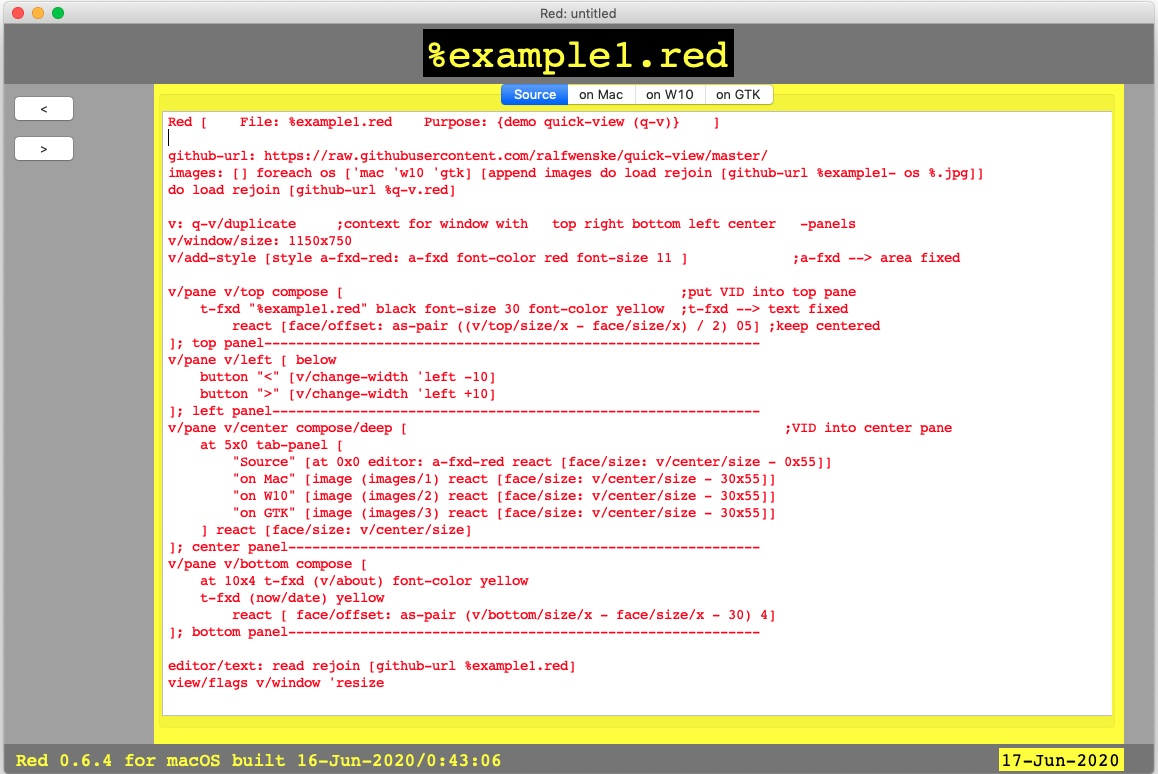
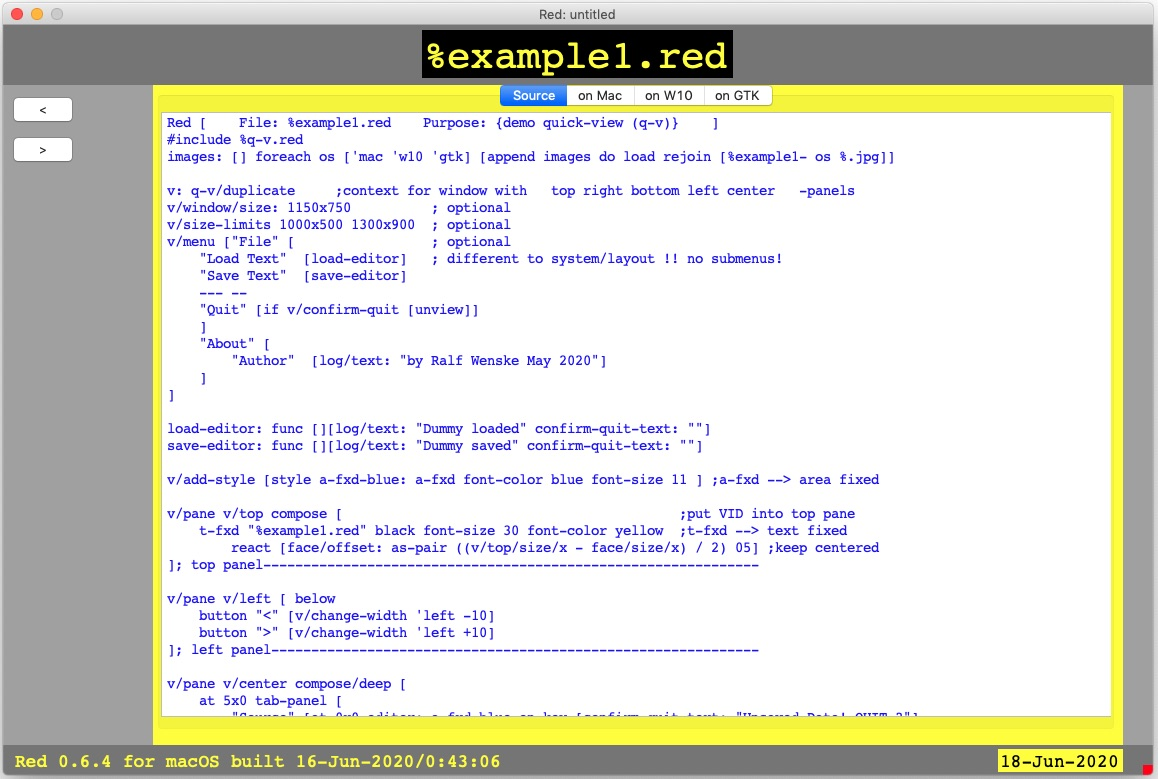
Loading files locally
Added menu
Added size-limits
Added on-quit dialog

Changed region(s): [[0.0, 0.0, 1.0, 1.0], [0.6839, 0.5271, 0.8394, 0.5581]]

diff --git a/README.md b/README.md
@@ -1,10 +1,21 @@
 # quick-view
  
-Experimental: changes are likely
+Experimental: changes are likely.
+I also would appreciate suggestions to improve and make the code more 'Red' like.
+My aim (besides having fun exploring Red) is to be able to quickly have a visual
+interface where I can show results of my data processing - without getting lost
+in presentation logic and pixel counting...
+... and perhaps achieve the same for others - beginners and experts - who so 
+generously share their tools and coding insights.
 
 Purpose:
-To avoid having to fiddle with pixels q-v allows to create a resizable GUI with 5 panels.
-Visual presentation of data is sometimes more appealing than endless console listings :)
+q-v allows to create a GUI with 5 panels.
+A fully working graphical user interface with a few lines of
+(hopefully self explaining) code:
+    Resizable (the window or outer panels)
+    Dialog preventing data loss if accidental quitting
+    Easy identifying of panels: top right bottom left center
+
 ```
 Red []
 #include %q-v.red
@@ -36,24 +47,20 @@ view/flags v/window 'resize
 ![alt default view](.view-order.jpg) 
 - - - -
 
-%example1.red shows how to place VID code into the panels
-`top right bottom left` and `center` refer to each
-Here the Linux (GTK) version:
-![alt default view](example1-gtk.jpg) 
+%example1.red shows how to place VID code into the panels 
+and show how user interaction can be coded
+Here the MacOS version:
+![alt default view](example1-mac.jpg) 
 
 
 NOTE:
     
     There are some unexpected things that remind us of the Alpha-status of Red.
-    
-    %example1.red can be pasted into a console and runs on Windows and Linux.
-
-    However on my macs this doesn't work: saving the copied code into a file works though.
-
-    Then again on Mac the loading of the images seems not to work - Windows and Linux are fine.
 
     The `area` face when resizing behaves differently on each platform.
 
     The `text` face on Windows misbehaves.
 
-    Size does not seem to work for Windows.
+    Font size seems different on Windows. (Font is "Courier")
+
+    On GTK when a menu is shown the viewable size is not adjusted.
